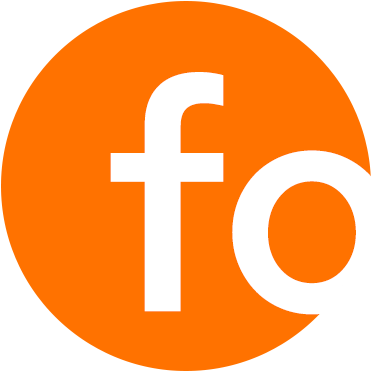
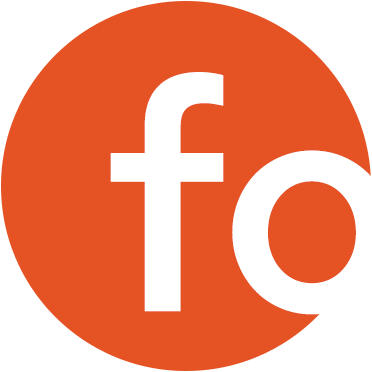
new foxedo ui

diff --git a/src/components/Home.js b/src/components/Home.js
@@ -3,43 +3,59 @@ import Navbar from './Navbar';
 import { Link } from 'react-router-dom';
 import { FontAwesomeIcon } from '@fortawesome/react-fontawesome';
 import { faCheck } from '@fortawesome/free-solid-svg-icons';
+import Footer from './Footer';
 import './Home.css';
 
 
-const Home = () => {
-    return (
-        <div className="container-fluid">
-            <Navbar />
-            <div className="main-page">
-                <div className="row justify-content-center welcome-row">
-                    <div className="col-md-6">
-                        <div className="welcome-container text-center">
-                            <div className="welcome-text">Welcome to Foxedo</div>
-                            <div className="welcome-text-small">Join Foxedo to watch the latest movies, exclusive TV shows as well as award-winning Foxedo Originals.</div>
-                            <Link to='/createaccount'><button className="main-btn">Start your 30-day free trial</button></Link>
+class Home extends React.Component{
+
+    render() {
+        return (
+            <div className="container-fluid">
+                <Navbar />
+                <div className="main-page">
+                    <div className="row justify-content-center welcome-back">
+                        <div className="col-md-8">
+                            <div className="welcome-container text-md-end no-select">
+                                <div className="welcome-text">Welcome to Foxedo</div>
+                                <div className="welcome-text-small">Join Foxedo to watch the latest movies, exclusive TV shows as well as award-winning Foxedo Originals.</div>
+                                <Link to='/createaccount'><button className="main-btn">Start your 30-day free trial</button></Link>
+                            </div>
                         </div>
                     </div>
-                </div>
-                <div className="row justify-content-center hp-plans-row">
-                    <div className="col-md-3 text-center">
-                        <div className="plans-card">
-                            <div className="plans-card-header">₹129 Per Month</div>
-                            <div className="plans-card-body">Unlimited Access <FontAwesomeIcon icon={faCheck} /></div>
-                            <div className="plans-card-footer">30-day free trial <FontAwesomeIcon icon={faCheck} /></div>
+                    <div className="container">
+                        <div className="h-01 text-center">
+                            <div className="h-01-title">Pay Monthly/Annually</div>
+                            <span className="h-01-text">Enjoy your first month for free.<br />After that its just <span style={{color:'#f2410a'}}>₹129/month</span> or <span style={{color:'#f2410a'}}>₹999/year</span>.</span>
                         </div>
-                    </div>
-                    <div className="col-md-3 text-center">
-                        <div className="plans-card">
-                            <div className="plans-card-header">₹999 Per Year</div>
-                            <div className="plans-card-body">Unlimited Access <FontAwesomeIcon icon={faCheck} /></div>
-                            <div className="plans-card-footer">30-day free trial <FontAwesomeIcon icon={faCheck} /></div>
+                        <hr />
+                        <div className="h-01 text-center">
+                            <div className="h-01-title">What's new on Foxedo</div>
+                            <div className="row">
+                                <div className="col-md-3">
+                                    <img className="h-01-image" src="https://res.cloudinary.com/dgf6joms9/image/upload/v1561023636/01-min_rb8pt5.jpg" alt="image" />
+                                </div>
+                                <div className="col-md-3">
+                                    <img className="h-01-image" src="https://res.cloudinary.com/dgf6joms9/image/upload/v1561023636/03-min_l0isq6.jpg" alt="image" />
+                                </div>
+                                <div className="col-md-3">
+                                    <img className="h-01-image" src="https://res.cloudinary.com/dgf6joms9/image/upload/v1561023636/02-min_ffuzml.jpg" alt="image" />
+                                </div>
+                                <div className="col-md-3">
+                                    <img className="h-01-image" src="https://res.cloudinary.com/dgf6joms9/image/upload/v1561023636/04-min_dwg2fs.jpg" alt="image" />
+                                </div>
+                            </div>
+                            <br />
+                            <span className="h-01-text">Majority of the top rated shows are on Foxedo.</span>
                         </div>
+                        <hr />
                     </div>
+                    <Footer />
                 </div>
             </div>
-        </div>
-    );
-};
+        );
+    }
+}
 
 
 export default Home;

diff --git a/src/components/Home.css b/src/components/Home.css
@@ -7,42 +7,46 @@
     }
 }
 
-.welcome-row{
-    background-color: antiquewhite;
+.welcome-back{
+    background-image: url('https://res.cloudinary.com/dgf6joms9/image/upload/v1561016880/foxedo-background-min_r9g3jd.jpg');
+    background-size: cover;
 }
 
 .welcome-container{
-    margin-top: 100px;
-    margin-bottom: 100px;
+    padding: 0px 10px 0px 10px;
+    margin-top: 130px;
+    margin-bottom: 130px;
 }
 
 .welcome-text{
     font-family: 'Oxygen', sans-serif;
     font-size: 50px;
+    color: white;
 }
 
 .welcome-text-small{
     font-size: 30px;
     margin-top: 35px;
     margin-bottom: 60px;
+    color: white;
 }
 
 .main-btn{
     padding: 15px;
     font-size: 20px;
-    background-color: #ff7200;
+    background-color: #f2410a;
     border:none;
-    border-radius: 10px;
+    border-radius: 25px;
     color:white;
     cursor: pointer;
 }
 
 .main-btn:hover{
-    background-color: #ff7b11;
+    background-color: #ef4510;
 }
 
 .main-btn:active{
-    background-color: #e26500;
+    background-color: #d63e0e;
 }
 
 .main-btn:focus{
@@ -76,4 +80,28 @@
     background-color: #f2f2f2;
     border-bottom-left-radius: 10px;
     border-bottom-right-radius: 10px;
+}
+
+.h-01-title{
+    margin-bottom: 40px;
+    font-family: 'Oxygen', sans-serif;
+    font-size: 33px;
+}
+
+.h-01-title-small{
+    font-size: 23px;
+    font-family: 'Oxygen', sans-serif;
+}
+
+.h-01{
+    margin-top: 70px;
+    margin-bottom: 70px;
+}
+
+.h-01-text{
+    font-size: 20px;
+}
+
+.h-01-image{
+    width: 100%;
 }

diff --git a/src/components/Profile.css b/src/components/Profile.css
@@ -11,12 +11,12 @@
 }
 
 .p-name{
-    color: #ff7200;
+    color: #f2410a;
 }
 
 .p-plan-card-name{
     padding: 20px;
-    background-color: #ffd8ba;
+    background-color: #e59379;
     color: white;
     border-top-left-radius: 10px;
     border-bottom-left-radius: 10px;
@@ -35,7 +35,7 @@
 }
 
 .p-card-active{
-    background-color: #ff7200;
+    background-color: #f2410a;
     color: white;
 }
 
@@ -56,17 +56,17 @@
     margin-top: 15px;
     margin-bottom: 25px;
     width: 50%;
-    background-color: #ff7200;
+    background-color: #f2410a;
     color: white;
     transition: 0.3s;
 }
 
 .p-btn:hover{
-    background-color: #ff7b11;
+    background-color: #ef4510;
 }
 
 .p-btn:active{
-    background-color: #e26500;
+    background-color: #d63e0e;
 }
 
 .p-btn:focus{
@@ -96,7 +96,7 @@
     width: 100%;
     padding: 10px 10px 8px 10px;
     font-size: 15px;
-    border: 1px solid #ff7200;
+    border: 1px solid #f2410a;
     border-radius: 10px;
 }
 

diff --git a/src/components/Navbar.css b/src/components/Navbar.css
@@ -35,7 +35,7 @@
     color: white;
     width: 100%;
     padding: 10px 20px 10px 20px;
-    background-color: #ffa861;
+    background-color: #f2410a;
     border: none;
     transition: 0.3s;
     border-top-left-radius: 20px;
@@ -43,14 +43,13 @@
 }
 
 .search-input:focus{
-    background-color: #ff9d4d;
     outline: none;
 }
 
 .search-button{
     padding: 14px;
     color: white;
-    background-color: #ffa861;
+    background-color: #f2410a;
     border: none;
     border-top-right-radius: 20px;
     border-bottom-right-radius: 20px;
@@ -90,18 +89,18 @@
 .nav-item{
     padding: 10px 15px 10px 15px;
     border: none;
-    background-color: #ff7200;
+    background-color: #f2410a;
     border-radius: 20px;
     text-decoration: none;
     color: white;
 }
 
 .nav-item:hover{
-    background-color: #ff7b11;
+    background-color: #ef4510;
 }
 
 .nav-item:active{
-    background-color: #e26500;
+    background-color: #d63e0e;
 }
 
 .nav-item:focus{

diff --git a/src/components/Navbar.js b/src/components/Navbar.js
@@ -37,7 +37,7 @@ class Navbar extends React.Component {
             <div className="row justify-content-md-between justify-content-lg-around align-items-center navbar-container">
                 <div className="col-md-3 no-select">
                     <Link to="/">
-                        <img className="main-logo cursor-pointer" src="https://res.cloudinary.com/dgf6joms9/image/upload/v1560261432/foxedo-nav-logo-with-padding_l8lps0.png" alt="Foxedo" />
+                        <img className="main-logo cursor-pointer" src="https://res.cloudinary.com/dgf6joms9/image/upload/v1561012302/foxedo-nav-logo-with-padding_l8lps0_gczxgj.png" alt="Foxedo" />
                     </Link>
                 </div>
                 <Search />

diff --git a/src/components/Foxedo.js b/src/components/Foxedo.js
@@ -8,7 +8,7 @@ const Foxedo = (props) => {
             <div className="row justify-content-center">
                 <div className="col-md-7 col-lg-4">
                     <Link to="/">
-                        <img className="ca-logo" src="https://res.cloudinary.com/dgf6joms9/image/upload/v1560261432/foxedo-nav-logo-with-padding_l8lps0.png" alt="Foxedo" />
+                        <img className="ca-logo" src="https://res.cloudinary.com/dgf6joms9/image/upload/v1561012302/foxedo-nav-logo-with-padding_l8lps0_gczxgj.png" alt="Foxedo" />
                     </Link>
                     {props.children}
                 </div>

diff --git a/src/components/ProfileComponents/ViewTransactions.js b/src/components/ProfileComponents/ViewTransactions.js
@@ -20,9 +20,7 @@ class ViewTransactions extends React.Component{
                     this.setState({phase:3})
                 };
         }else if(this.props.auth.isSignedIn===true){
-            if(this.props.trans===null){
-                await this.props.fetchTransactions(this.props.auth.token);
-            };
+            await this.props.fetchTransactions(this.props.auth.token);
             this.setState({phase:3})
         };
     };

diff --git a/public/main-style.css b/public/main-style.css
@@ -10,6 +10,9 @@
     }
 }
 
+hr{box-sizing:content-box;height:0;overflow:visible}
+hr{margin-top:1rem;margin-bottom:1rem;border:0;border-top:1px solid rgba(0,0,0,.1)}
+
 
 *{
     padding: 0px;
@@ -62,4 +65,12 @@ body{
     width: 100%;
     position: relative;
     top:70px;
+}
+
+.footer{
+    background-color: #dddddd;
+}
+
+.footer-col{
+    padding: 40px 70px 40px 70px;
 }

diff --git a/src/components/CreateAccountComponents/Spinner.css b/src/components/CreateAccountComponents/Spinner.css
@@ -7,7 +7,7 @@
 .spinner{
     border: 7px solid #f3f3f3;
     border-radius: 50%;
-    border-top: 7px solid #ff7200;
+    border-top: 7px solid #f2410a;
     width: 60px;
     height: 60px;
     -webkit-animation: spin 1s linear infinite; /* Safari */

diff --git a/src/components/CreateAccount.css b/src/components/CreateAccount.css
@@ -22,7 +22,7 @@
     width: 100%;
     padding: 10px 10px 8px 10px;
     font-size: 15px;
-    border: 1px solid #ff7200;
+    border: 1px solid #f2410a;
     border-radius: 10px;
 }
 
